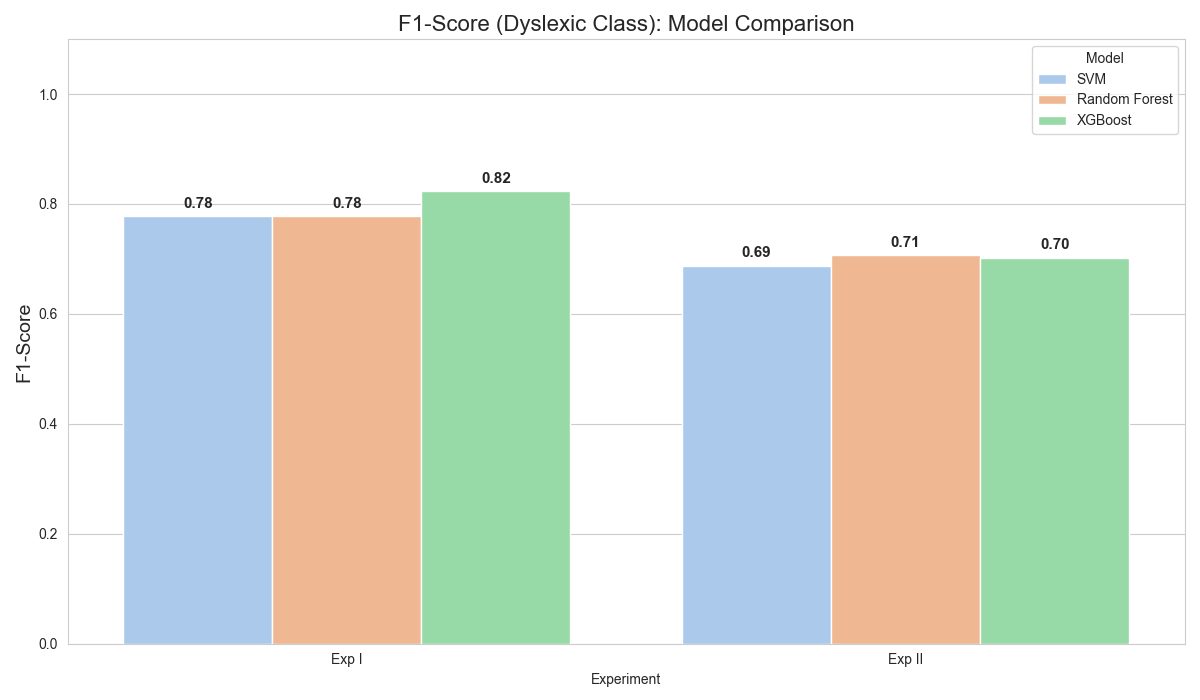
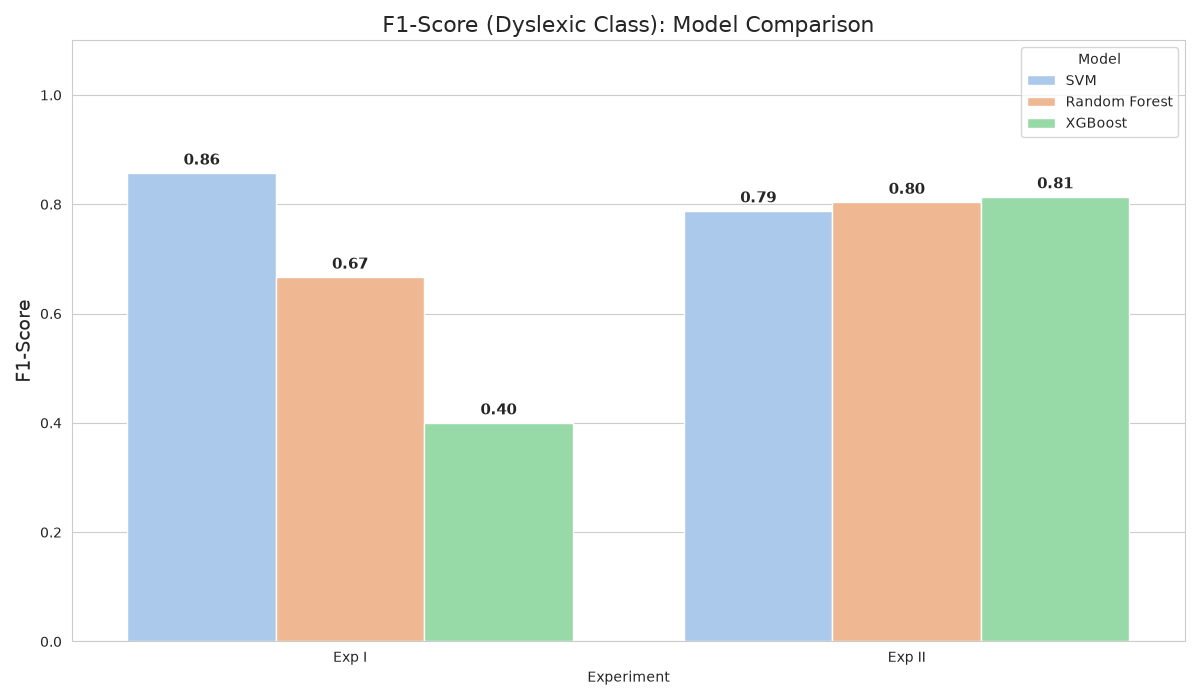
refactor: update model training pipeline and prune redundant experiment result files

diff --git a/src/train_model.py b/src/train_model.py
@@ -7,7 +7,7 @@ from sklearn.model_selection import train_test_split
 from sklearn.metrics import classification_report, accuracy_score, confusion_matrix
 from sklearn.impute import SimpleImputer
 from sklearn.pipeline import make_pipeline
-from sklearn.preprocessing import StandardScaler, QuantileTransformer
+from sklearn.preprocessing import StandardScaler, QuantileTransformer, MinMaxScaler, PowerTransformer
 from data_loader import load_data
 
 def run_experiments():
@@ -54,14 +54,14 @@ def run_experiments():
         'Exp2': {}
     }
 
-    # Models to compare
-    models = {
-        'SVM': make_pipeline(imputer, StandardScaler(), SVC(kernel='rbf', C=1.0, random_state=42)),
+    # Models to compare for Experiment I (Intra-dataset)
+    models_exp1 = {
+        'SVM': make_pipeline(imputer, StandardScaler(), SVC(C=2.0, kernel='linear', random_state=42)),
         'Random Forest': make_pipeline(imputer, RandomForestClassifier(n_estimators=100, random_state=42)),
-        'XGBoost': make_pipeline(imputer, XGBClassifier(use_label_encoder=False, eval_metric='logloss', random_state=42))
+        'XGBoost': make_pipeline(imputer, XGBClassifier(n_estimators=50, max_depth=3, learning_rate=0.01, subsample=0.8, eval_metric='logloss', random_state=42))
     }
 
-    for name, clf in models.items():
+    for name, clf in models_exp1.items():
         print(f"\nTraining {name} for Experiment I...")
         clf.fit(X_train, y_train)
         y_pred = clf.predict(X_test)
@@ -78,37 +78,38 @@ def run_experiments():
         X_kron = df_kron[feature_cols].values
         y_kron = df_kron['label'].values
         
-        # DOMAIN ADAPTATION: Quantile Normalization
-        qt_etdd = QuantileTransformer(output_distribution='normal', n_quantiles=min(len(X_etdd), 100), random_state=42)
-        X_etdd_imp = imputer.fit_transform(X_etdd)
-        X_etdd_scaled = qt_etdd.fit_transform(X_etdd_imp)
+        # Prepare components for Experiment II (Optimized)
+        configs_exp2 = {
+            'SVM': {
+                'scaler': MinMaxScaler(),
+                'model': SVC(C=0.5, gamma=0.1, kernel='rbf', random_state=42)
+            },
+            'Random Forest': {
+                'scaler': PowerTransformer(),
+                'model': RandomForestClassifier(n_estimators=200, max_depth=5, min_samples_split=2, random_state=42)
+            },
+            'XGBoost': {
+                'scaler': PowerTransformer(),
+                'model': XGBClassifier(n_estimators=50, max_depth=3, learning_rate=0.05, subsample=0.8, eval_metric='logloss', random_state=42)
+            }
+        }
         
-        qt_kron = QuantileTransformer(output_distribution='normal', n_quantiles=min(len(X_kron), 100), random_state=42)
-        X_kron_imp = imputer.transform(X_kron)
-        X_kron_scaled = qt_kron.fit_transform(X_kron_imp)
-        
-        # Models for Experiment II (Using Domain Adaptation/DA principles)
-        for name, model_obj in models.items():
+        for name, config in configs_exp2.items():
             print(f"\nEvaluating {name} for Experiment II...")
+            scaler = config['scaler']
+            model = config['model']
             
-            # Simple Domain Adaptation: Quantile Normalization
-            qt_etdd = QuantileTransformer(output_distribution='normal', n_quantiles=min(len(X_etdd), 100), random_state=42)
+            # Impute
             X_etdd_imp = imputer.fit_transform(X_etdd)
-            X_etdd_scaled = qt_etdd.fit_transform(X_etdd_imp)
-            
-            qt_kron = QuantileTransformer(output_distribution='normal', n_quantiles=min(len(X_kron), 100), random_state=42)
             X_kron_imp = imputer.transform(X_kron)
-            X_kron_scaled = qt_kron.fit_transform(X_kron_imp)
             
-            # Extract basic estimator if pipeline
-            if hasattr(model_obj, 'named_steps'):
-                base_model = model_obj.steps[-1][1]
-            else:
-                base_model = model_obj
+            # Scale
+            X_etdd_scaled = scaler.fit_transform(X_etdd_imp)
+            X_kron_scaled = scaler.transform(X_kron_imp)
             
-            # Re-fit on full scaled ETDD for generalization
-            base_model.fit(X_etdd_scaled, y_etdd)
-            y_pred_kron = base_model.predict(X_kron_scaled)
+            # Train and evaluate
+            model.fit(X_etdd_scaled, y_etdd)
+            y_pred_kron = model.predict(X_kron_scaled)
             
             acc_kron = accuracy_score(y_kron, y_pred_kron)
             results['Exp2'][name] = {

diff --git a/src/data_loader.py b/src/data_loader.py
@@ -85,7 +85,7 @@ def extract_features_v2(df, dataset_type='child'):
         # Kronoberg: T, LX, LY, RX, RY. T is approx 20ms?
         # Clean numeric
         for col in ['LX', 'RX', 'LY', 'RY', 'T']:
-            if col in df.columns and df[col].dtype == object:
+            if col in df.columns:
                 df[col] = df[col].astype(str).str.replace(',', '.', regex=False)
                 df[col] = pd.to_numeric(df[col], errors='coerce')
         
@@ -98,9 +98,14 @@ def extract_features_v2(df, dataset_type='child'):
 
 def load_etdd70_data(base_path):
     # Load ETDD70
-    # Placeholder label logic: Odd SID = Dyslexic (1), Even = Control (0)
-    # TODO: Replace with actual label file or logic
-    print("WARNING: Using PLACEHOLDER labels for ETDD70 (Odd=Dyslexic, Even=Control).")
+    label_file = os.path.join(base_path, "datasets", "etdd700-data", "dyslexia_class_label.csv")
+    label_map = {}
+    if os.path.exists(label_file):
+        df_labels = pd.read_csv(label_file)
+        for _, row in df_labels.iterrows():
+            label_map[str(row['subject_id'])] = int(row['class_id'])
+    else:
+        print("WARNING: dyslexia_class_label.csv not found, using fallback placeholder labels.")
     
     etdd_data = []
     data_dir = os.path.join(base_path, "datasets", "etdd700-data", "data")
@@ -115,9 +120,11 @@ def load_etdd70_data(base_path):
         
     for sid in sorted(sids):
         try:
-            # Hypothesis: ID range (balanced 26/27 split)
-            # IDs 10xx are one class, 11xx+ are another
-            label = 0 if int(sid) < 1100 else 1
+            # Get ground truth label from label map or fallback
+            if sid in label_map:
+                label = label_map[sid]
+            else:
+                label = 0 if int(sid) < 1100 else 1
             
             # Load Fixations
             fix_files = sorted(glob.glob(os.path.join(data_dir, f"Subject_{sid}_*_fixations.csv")))